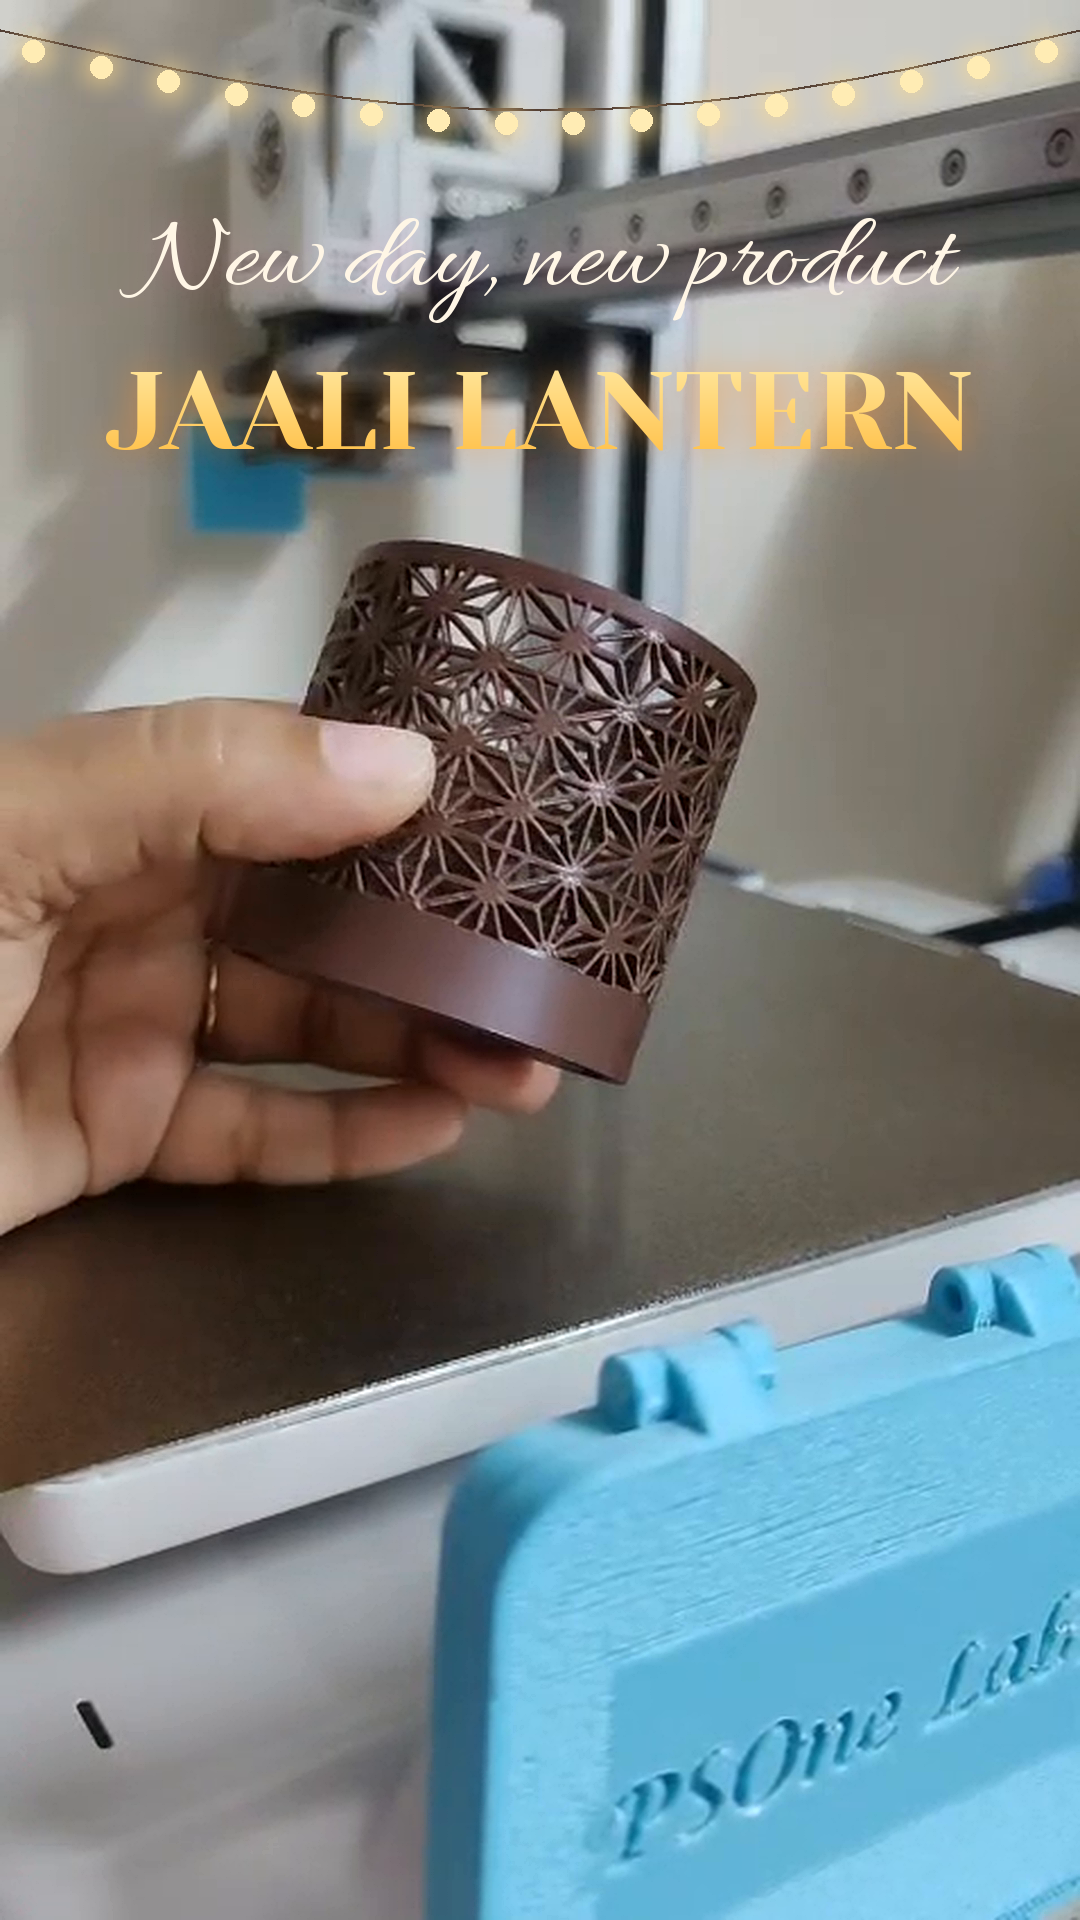
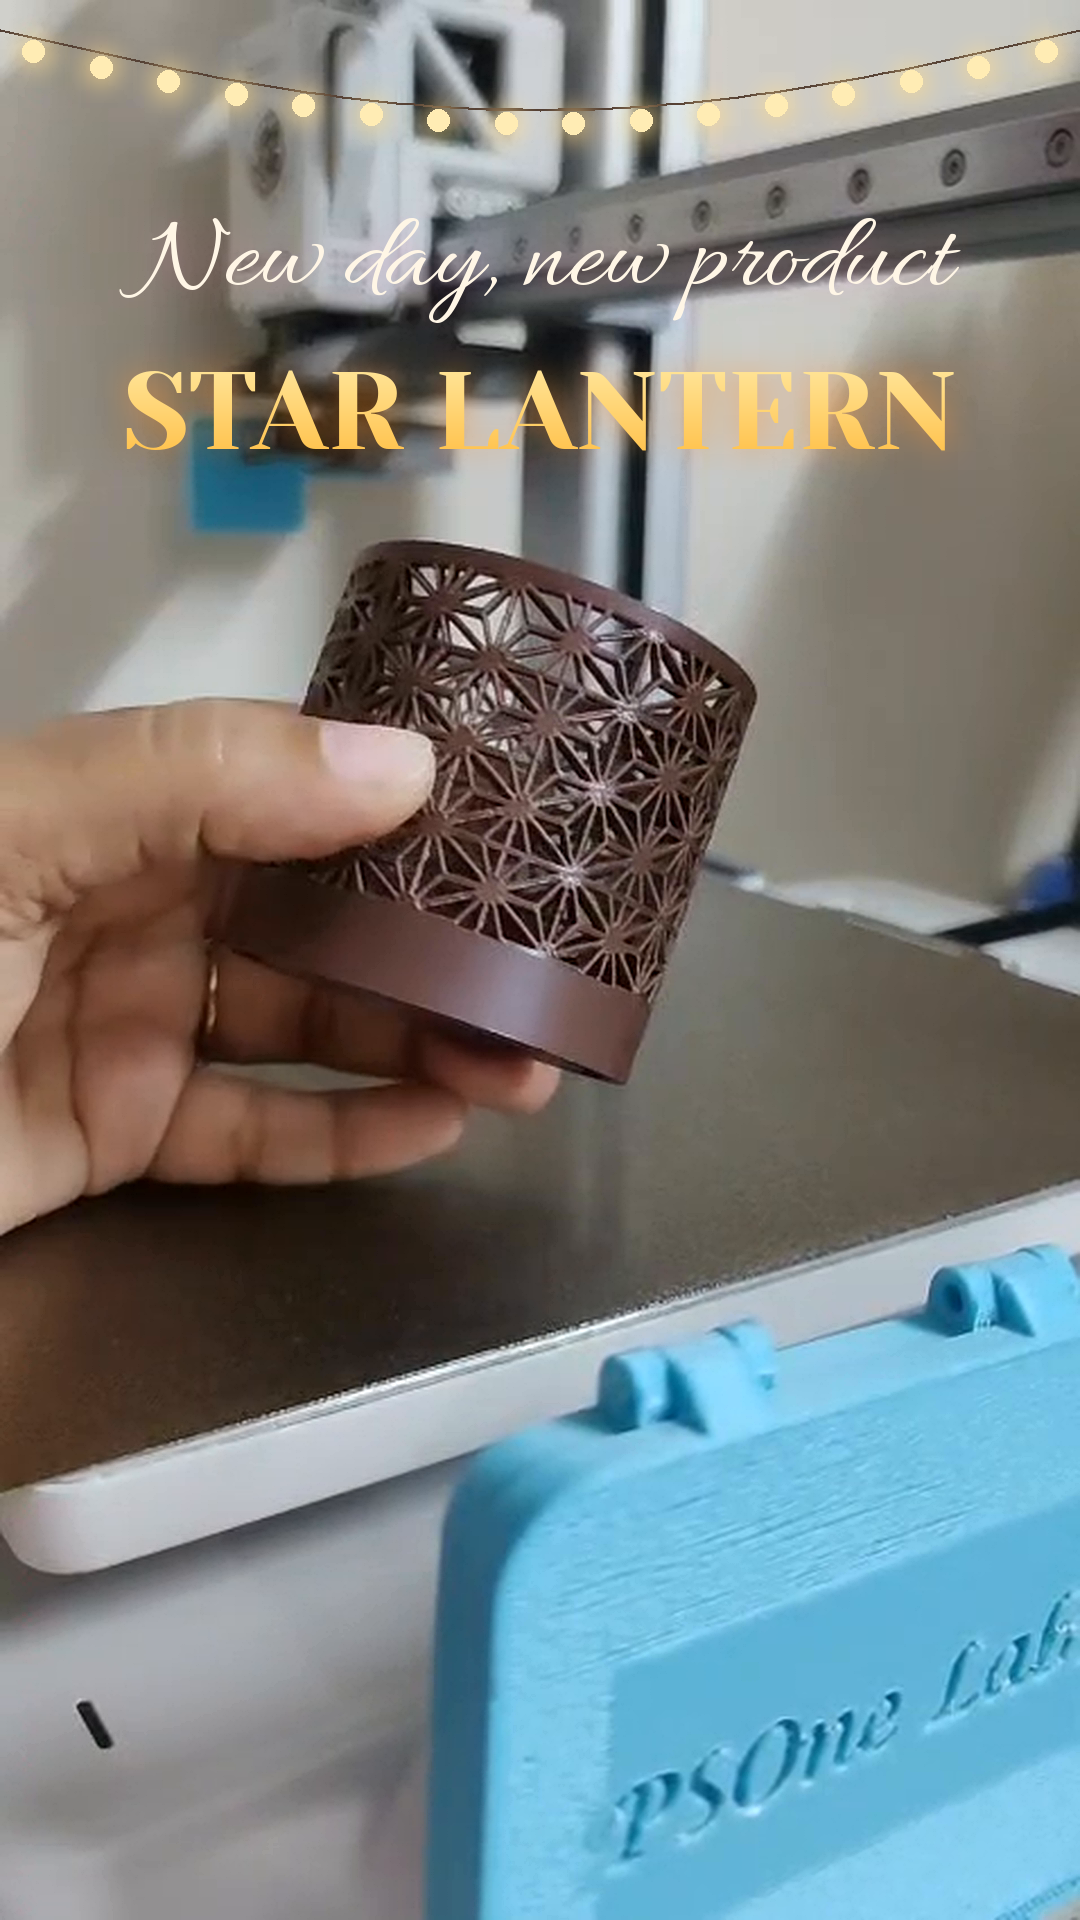
Lantern: name Star Lantern, look F chosen
Claude-Session: https://claude.ai/code/session_01TVCvQsL4S7ttCtVD8bcYk5

Changed region(s): [[0.0917, 0.1875, 0.9167, 0.25]]

diff --git a/tools/style_options_lantern01.py b/tools/style_options_lantern01.py
@@ -252,7 +252,7 @@ def f_hook():
     f = still(4.5)
     T.string_lights(f, 30, 80, n=16)
     paste_center(f, T.glow_text("New day, new product", T.allura(110), CREAM, glow=(255, 150, 200), ga=110), W / 2, 270)
-    paste_center(f, T.glow_text("JAALI LANTERN", T.yeseva(110), (T.GOLD_L, T.GOLD)), W / 2, 410)
+    paste_center(f, T.glow_text("STAR LANTERN", T.yeseva(110), (T.GOLD_L, T.GOLD)), W / 2, 410)
     return f
 
 

diff --git a/diwali-03-tealight-lantern/plan.md b/diwali-03-tealight-lantern/plan.md
@@ -1,4 +1,6 @@
-# Diwali 03 — Tea-light Lantern (PSOne Labs)
+# Diwali 03 — Star Lantern (PSOne Labs)
+
+**Chosen:** name **Star Lantern** ("tea-light holder" in the caption), look **F — Glow Night**. Script: waiting for the client.
 
 3D-printed tea-light lantern: chocolate-brown star-lattice (asanoha / jaali) shade on a terracotta base; an LED tea light
 inside throws a star pattern. Footage: VID-20261026-WA0001.mp4(44s, 478x850) + three hand-held photos.
